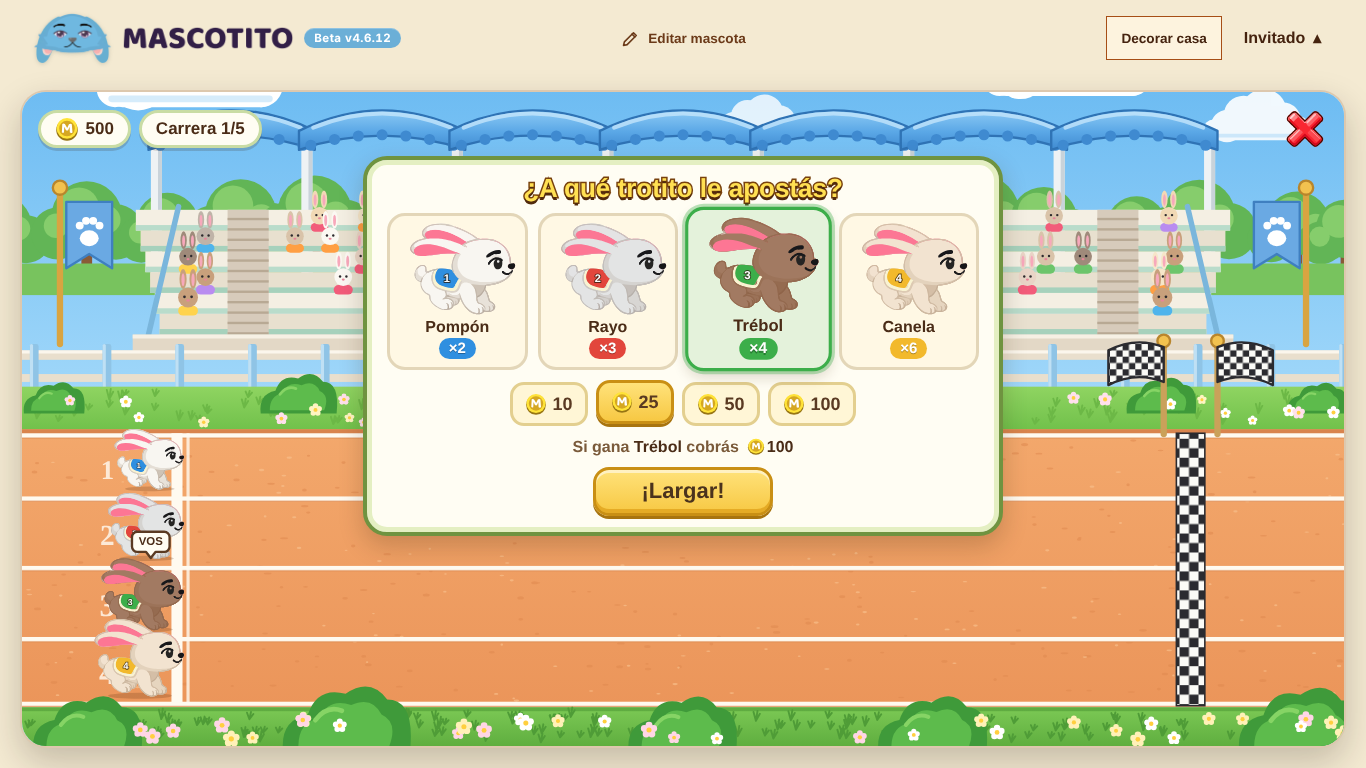
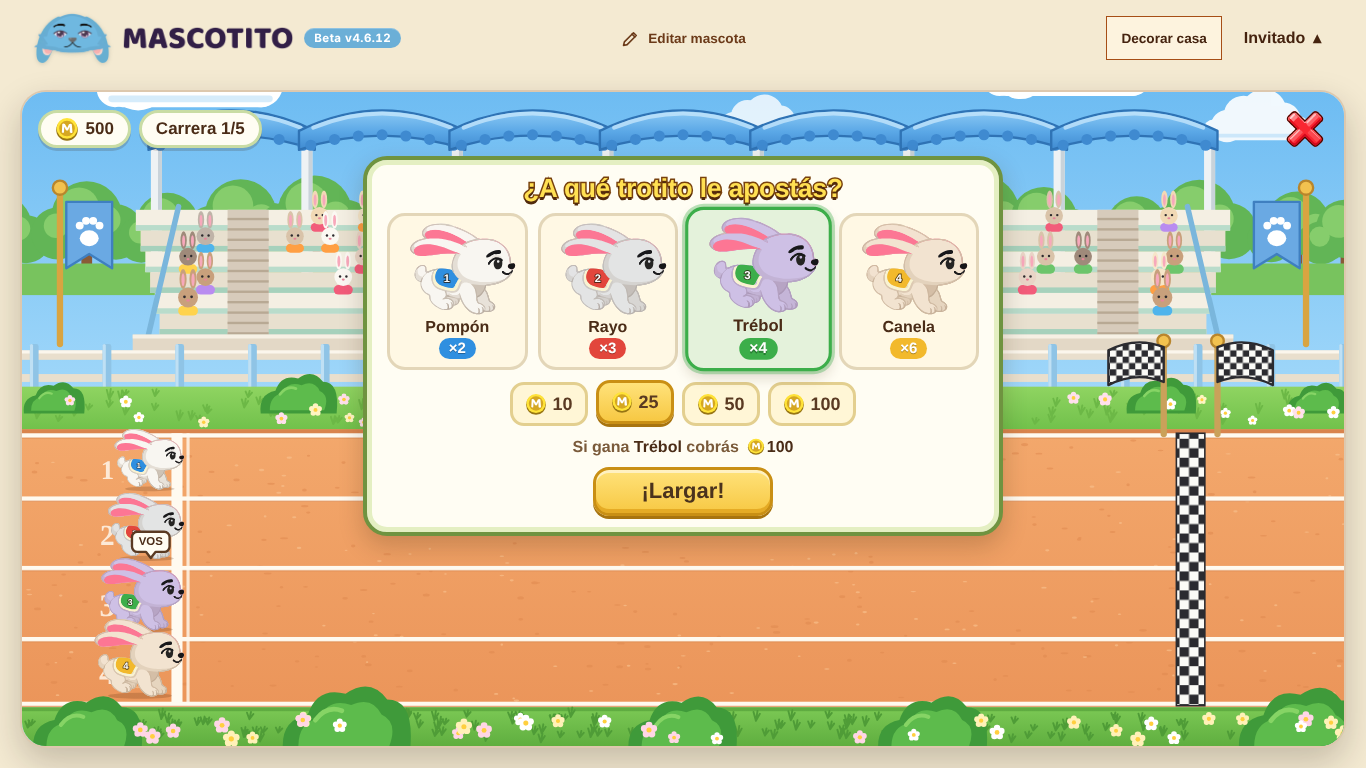
v4.6.12 — Hotfix 2: Trébol lila
Trébol pasa de chocolate a lila (#9b7fd6, tinte al 55 %), elegido entre
las opciones probadas. Capturas actualizadas.

Claude-Session: https://claude.ai/code/session_018Lcr9MsxQfvysTvLFCzK5p

Changed region(s): [[0.5227, 0.2812, 0.6149, 0.4062], [0.0615, 0.7188, 0.1537, 0.8438]]

diff --git a/js/trotito.js b/js/trotito.js
@@ -14,7 +14,7 @@
    - assets/games/trotito/run.svg — los 6 cuadros de la carrera (sprite
      vectorizado) como <symbol> trot-f1…trot-f6. La manta usa var(--manta)
      y el pelaje var(--fur) (hotfix 1), con la fuerza del tinte en
-     var(--fur-keep) (hotfix 2: Trébol chocolate, sin manchas).
+     var(--fur-keep) (hotfix 2: Trébol lila, sin manchas).
    - escenario.svg (pista dibujada a mano en vectores, hotfix 1, ver
      scripts/draw-trotito-track-v4612.py) y podio.svg (el podio sin
      estadio ni confeti).
@@ -32,13 +32,13 @@ const TROTITO_ART = {
 // (suman 1). Todo acá para ajustarlo con la economía de v4.7.
 // Hotfix 1: para que no sean todos iguales, Pompón queda blanco como el
 // sprite, Rayo es gris perla y Canela color canela clarito (fur = tinte del
-// pelaje). Hotfix 2: Trébol ya no lleva manchas: es chocolate. Para eso
+// pelaje). Hotfix 2: Trébol ya no lleva manchas: es lila. Para eso
 // furKeep dice cuánto queda del blanco del sprite (72 % si no se pone; con
 // menos, el color de fur pesa más).
 const TROTITO_RUNNERS = [
   { n: 1, name: "Pompón", color: "#2f8fe0", odds: 2, chance: .42 },
   { n: 2, name: "Rayo", color: "#e2463c", odds: 3, chance: .28, fur: "#aeb6c4" },
-  { n: 3, name: "Trébol", color: "#3cae4a", odds: 4, chance: .20, fur: "#7d4524", furKeep: "30%" },
+  { n: 3, name: "Trébol", color: "#3cae4a", odds: 4, chance: .20, fur: "#9b7fd6", furKeep: "55%" },
   { n: 4, name: "Canela", color: "#f2b92c", odds: 6, chance: .10, fur: "#e2b27c" },
 ];
 

diff --git a/scripts/export-trotito-v4612.py b/scripts/export-trotito-v4612.py
@@ -60,7 +60,7 @@ def recolor(tag):
     """Manta azul → var(--manta). Pelaje (colores claros casi sin
     saturación) → mezcla con var(--fur): sin --fur queda igual (se mezcla
     consigo mismo); con --fur se tiñe un poco (hotfix 1: Rayo y Canela) o
-    más, si el corredor baja --fur-keep (hotfix 2: Trébol chocolate)."""
+    más, si el corredor baja --fur-keep (hotfix 2: Trébol lila)."""
     m = re.search(r'fill="#([0-9A-Fa-f]{6})"', tag)
     hexc = m.group(1)
     r, g, b = [int(hexc[i:i + 2], 16) / 255 for i in (0, 2, 4)]

diff --git a/PENDIENTES.md b/PENDIENTES.md
@@ -21,7 +21,7 @@
 - [x] v4.6.11: nombres sobre los íconos al pasar el mouse (Inventario, Ropa, Tienda, Dormir/Despertar, Jugar, Limpiar, Contactos), círculo central de la ruleta rehecho y globo de charla rediseñado (dura según el largo del texto).
 - [x] v4.6.12: **Trotito**, carreras de 4 conejos con apuestas (10/25/50/100 monedas, cuotas ×2/×3/×4/×6, paga sólo el 1º, 5 carreras por día), botón «¡Alentar!» (sólo festejo) y podio con confeti. Además: globo de charla crema con detalles marrón clarito, brazos casi quietos al caminar, ojos más rápidos al dormir/despertar y sin el cartel de indicaciones en Pesca/Trotito.
 - [x] v4.6.12 hotfix 1: pupilas de los ojos 5 y 6 siguen al mouse (antes se movía el ojo entero), ventana sin nubes animadas ni día/noche, nombres al pasar el mouse por los juegos. Trotito: pista redibujada en vectores (sin carteles de salida/meta, con público), podio más prolijo (corredores más grandes y los tres contentos, fondo crema con sombras), sombras bajo las patas y corredores distintos (Rayo gris, Trébol con manchas, Canela canela).
-- [x] v4.6.12 hotfix 2: Trotito — el cartel de llegada anuncia siempre al ganador sorteado (antes, si se cambiaba de pestaña o de app a mitad de carrera, podía decir «¡Ganó Pompón!» aunque ganara otro); la carrera queda en pausa en segundo plano y la animación se detiene al llegar los cuatro. Trébol sin manchas y de color chocolate.
+- [x] v4.6.12 hotfix 2: Trotito — el cartel de llegada anuncia siempre al ganador sorteado (antes, si se cambiaba de pestaña o de app a mitad de carrera, podía decir «¡Ganó Pompón!» aunque ganara otro); la carrera queda en pausa en segundo plano y la animación se detiene al llegar los cuatro. Trébol sin manchas y de color lila.
 - [ ] Minijuegos de apuestas con monedas: ~~carrera de caballos~~ (hecha como Trotito en v4.6.12) y blackjack (contra la banca). Definir apuesta mínima/máxima, pagos y un límite diario.
 - [ ] Juego de reflejos inspirado en Splat A Sloth (tocar rápido lo que aparece antes de que se esconda, sin tocar lo que no hay que tocar). Mecánica propia, con arte y nombre propios (no copiar personajes, dibujos ni marca del original).
 - [ ] Kass Basher (estilo Neopets): golpear con un mazo en el momento justo para lanzar a un personaje lo más lejos posible; puntaje por distancia.

diff --git a/README.md b/README.md
@@ -6,7 +6,7 @@
   - El tiempo de la carrera avanza de a lo sumo 0,1 s por cuadro (antes salía del reloj). En segundo plano no hay cuadros, así que **la carrera queda en pausa y al volver sigue donde estaba**, sin perderse la llegada.
   - Los corredores se revisan en el **orden sorteado**: si dos cruzan en el mismo cuadro, el que se anuncia es el que ganó.
 - **Trotito — rendimiento:** la animación de la carrera seguía corriendo ~20 s después de la llegada (hasta los 30 s), con el podio ya en pantalla. Ahora se detiene cuando llegan los cuatro.
-- **Trotito — Trébol chocolate:** **sin las manchas** y con pelaje **chocolate** (`#7d4524`), así se distingue de Pompón (blanco), Rayo (gris perla) y Canela (canela clarito), también chiquito en la pista. El tinte del pelaje mezclaba siempre un 28 % del color; ahora cada corredor puede pedir más con `furKeep` (cuánto queda del blanco del sprite, `--fur-keep` en `run.svg`; 72 % si no se pone, Trébol usa 30 %). Se sacaron las manchas de `run.svg` (pesa 337 KB, antes 350 KB) y de `scripts/export-trotito-v4612.py`. Capturas: `Claude outputs/v4612h2-trotito-apuesta.png` y `v4612h2-trotito-podio.png`.
+- **Trotito — Trébol lila:** **sin las manchas** y con pelaje **lila** (`#9b7fd6`), así se distingue de Pompón (blanco), Rayo (gris perla) y Canela (canela clarito), también chiquito en la pista. (Se probaron también chocolate y negro; se eligió lila.) El tinte del pelaje mezclaba siempre un 28 % del color; ahora cada corredor puede pedir más con `furKeep` (cuánto queda del blanco del sprite, `--fur-keep` en `run.svg`; 72 % si no se pone, Trébol usa 55 %). Se sacaron las manchas de `run.svg` (pesa 337 KB, antes 350 KB) y de `scripts/export-trotito-v4612.py`. Capturas: `Claude outputs/v4612h2-trotito-apuesta.png` y `v4612h2-trotito-podio.png`.
 - Pruebas: `tests/trotito.test.js` simula una carrera con 20 s sin cuadros a la mitad y revisa el cartel, el orden de llegada y que el bucle se detenga. Versión en `?v=4.6.12-h2`.
 
 ## Beta v4.6.12 — Hotfix 1
